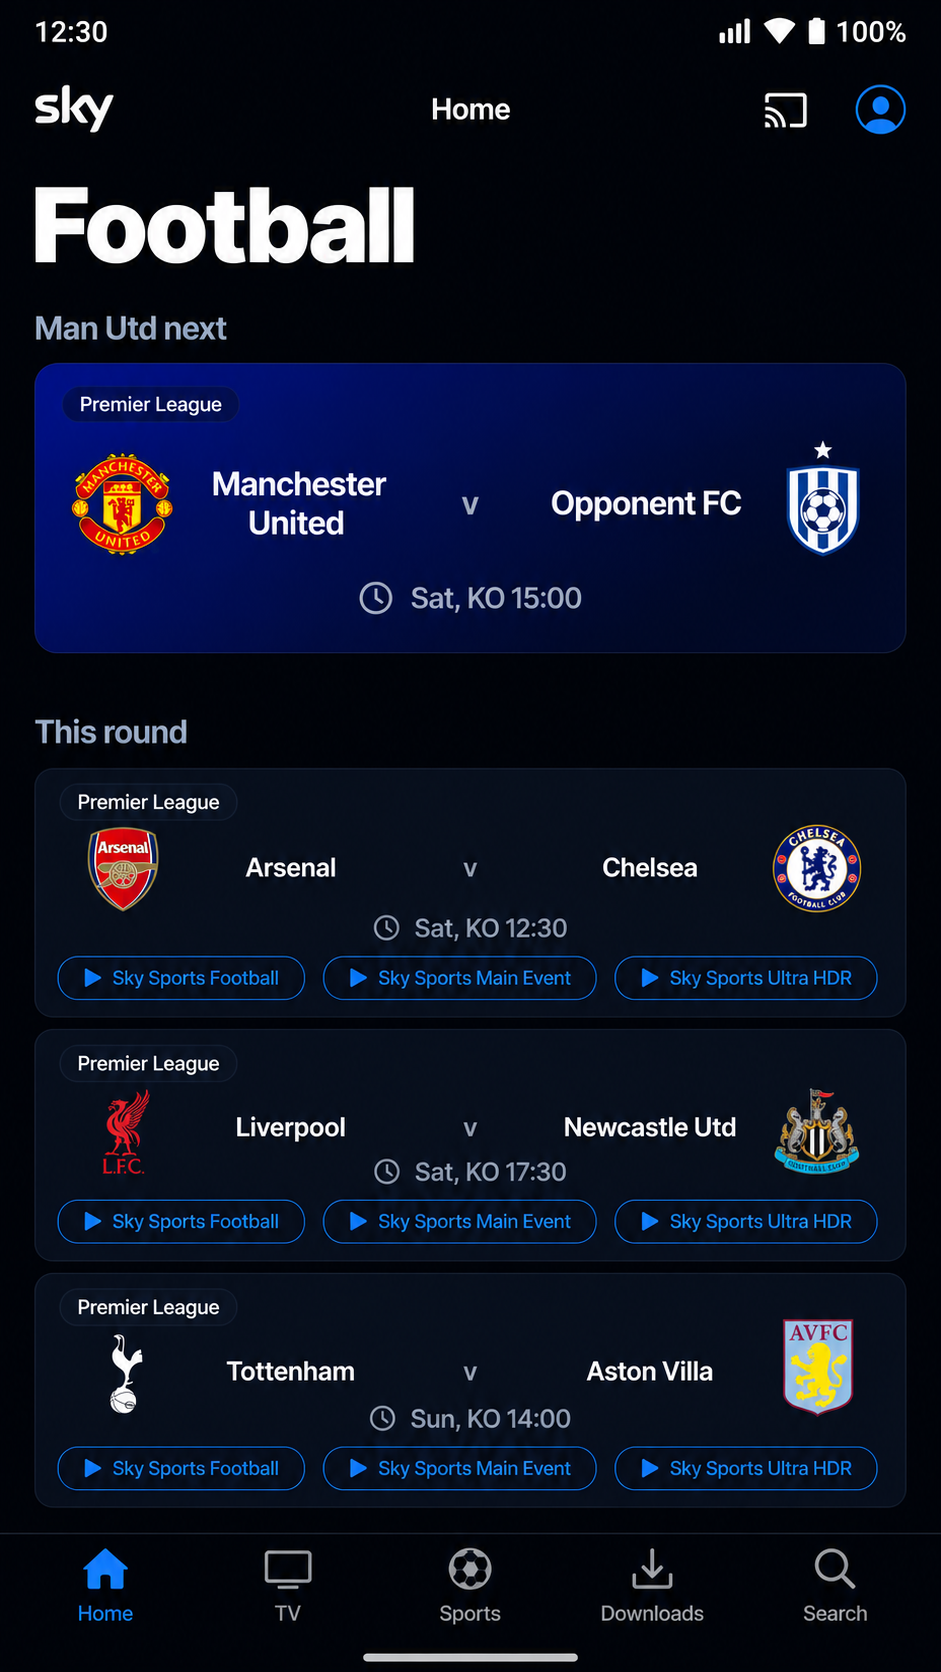
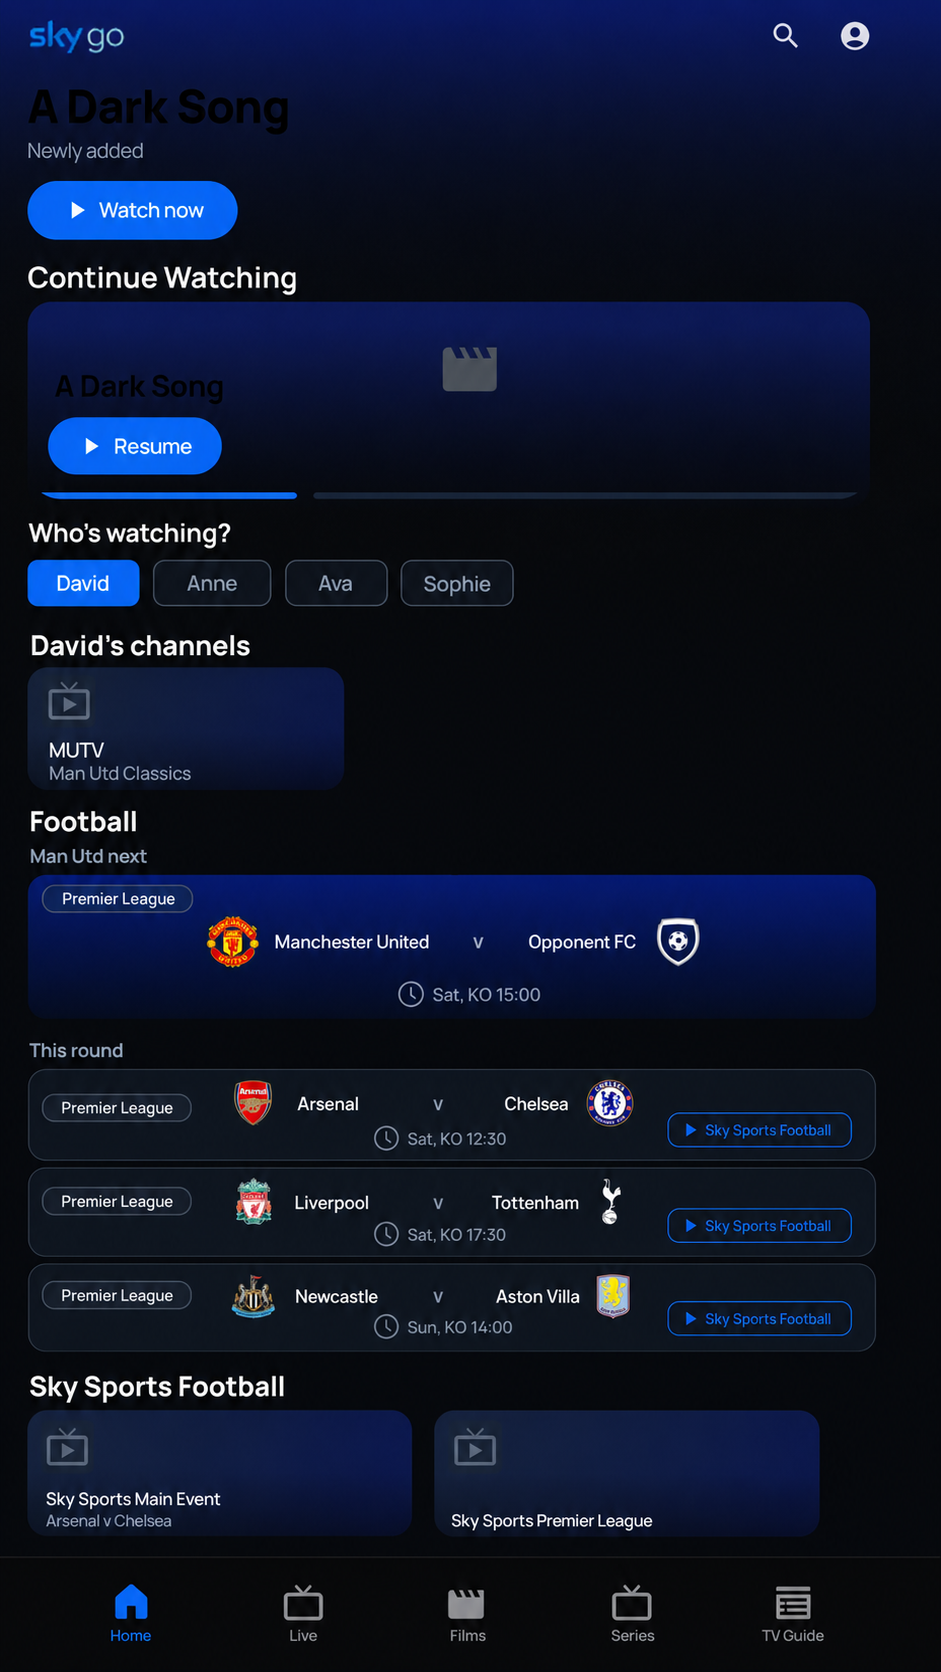
Regenerate the fixtures mockup grounded in the real Home screenshot
The previous mockup was pure text-to-image and invented a bottom nav
bar that doesn't match the app (real nav is Home/Live/Films/Series/TV
Guide, not the guessed "Home/TV/Sports/Downloads/Search"). Replaces it
with an image-to-image mockup grounded directly in the real committed
docs/skyline-screenshots/home_david.png, inserting the Football
section in its correct position (between the pinned-channels rail and
the "Sky Sports Football" category rail, matching HomeScreen.kt's
actual render order) and rendering the real 5-item bottom nav once at
the bottom of the composite. Design brief updated with a revision
history explaining what changed and why.

diff --git a/design/football-fixtures-list-redesign.md b/design/football-fixtures-list-redesign.md
@@ -270,33 +270,63 @@ reverted or reworked.
 
 ## Visuals
 
-**Mockup generated successfully**, once the session's network egress
-policy was widened to Full (originally blocked, see below):
+**Mockup regenerated as image-to-image, grounded in the real current
+screenshot** (superseding an earlier text-to-image version — see "Revision
+history" below):
 `design/football-fixtures-list-redesign/mockups/home-football-section.png`
-(`gpt-image-2-text-to-image`, 941×1672, `taskId`
-`b4ddf318b4667b6c444e35ffcb1f1e8d`). Generated from the prompt saved at
-`design/football-fixtures-list-redesign/mockups/prompt.txt` (unchanged from
-the first attempt — grounded in `SkyPalette.Canvas` background, the "Man
-Utd next" spotlight card with its indigo/navy gradient and `SkyRadius.hero`
-corners, a visible gap, "This round" label, then a full-width vertical
-stack of flat `SkyPalette.Surface` `FixtureCard`s with mirrored
-crest/name/status rows and outlined channel chips). The result visibly
-matches the shipped layout: spotlight card → clear gap → "This round" label
-→ three full-width fixture cards stacked top-to-bottom with even gaps, no
-horizontal carousel.
+(`gpt-image-2-image-to-image`, 941×1672, `taskId`
+`139b9efad7f3337d814662f1454b9cf6`). Input image was
+`docs/skyline-screenshots/home_david.png` (1078×2399, the real committed
+Roborazzi capture of `HomeScreen` with David selected — see "Grounding"
+above), uploaded via kie.ai's `file-base64-upload` endpoint per
+`docs/integrations/kie-ai-image-generation.md`. Prompt (saved at
+`design/football-fixtures-list-redesign/mockups/prompt.txt`) instructed
+preserving the screenshot's existing content pixel-faithfully (header
+wordmark/icons, hero card, Continue Watching, Who's watching chips,
+"David's channels" pinned rail, "Sky Sports Football" category rail) and
+inserting the Football section — "Man Utd next" spotlight card, gap, "This
+round" label, three vertically-stacked full-width fixture cards — directly
+between the "MUTV" pinned-rail card and the "Sky Sports Football" category
+rail, matching `HomeScreen.kt`'s actual render order (finding above). The
+prompt also specified the real 5-item bottom nav (Home/Live/Films/Series/TV
+Guide, `SkyPalette.Accent` blue on the selected "Home" icon+label only, no
+pill indicator, `SkyPalette.Canvas` bar background) appended once at the
+bottom of the composite, correcting the previous version's invented nav.
 
-**First attempt failed — network egress, not a missing key.**
-`KIE_AI_API_KEY` was set throughout; the initial `createTask` call got
-`CONNECT tunnel failed, response 403` against `api.kie.ai:443`, confirmed
-via `$HTTPS_PROXY/__agentproxy/status`'s `recentRelayFailures` (`"kind":
-"connect_rejected", "detail": "gateway answered 403 to CONNECT (policy
-denial or upstream failure)"`) and a retry that hit the same 403. Per this
-environment's proxy README, that's an organization egress-policy signal,
-not something to retry around. The user then changed this environment's
-network access setting to Full, `api.kie.ai` became reachable (confirmed
-via a plain `curl` returning `404` on the bare root instead of a proxy
-403, and an empty `recentRelayFailures`), and the mockup above was
-generated on the next attempt in the same session.
+Visual result, checked against the prompt: header/hero/Continue
+Watching/Who's watching chips/pinned rail are unchanged from the real
+screenshot; the Football section renders in the correct position with the
+right internal structure (spotlight card, gap, "This round" label, three
+stacked fixture cards, no carousel); the "Sky Sports Football" category
+rail still follows it; the bottom nav bar shows the correct 5 real items
+with only "Home" highlighted blue. One minor model liberty: the "Opponent
+FC" crest rendered as a generic placeholder badge rather than a blank/grey
+crest — cosmetic, doesn't affect the layout review.
+
+## Revision history
+
+**v2 (current)**: image-to-image, grounded in `docs/skyline-screenshots/home_david.png`,
+correct real bottom nav, full home-screen composite. Replaced v1 in place
+(same file path) per the user's request after reviewing v1 and flagging its
+nav bar as wrong.
+
+**v1 (superseded, not kept in the repo)**: pure text-to-image
+(`gpt-image-2-text-to-image`, `taskId` `b4ddf318b4667b6c444e35ffcb1f1e8d`),
+cropped to just the Football section with no surrounding screen content.
+Its biggest defect, caught by the user: it **invented** a bottom nav bar
+("Home / TV / Sports / Downloads / Search" with a football icon) that does
+not match the real app (`ui/navigation/SkylineNavHost.kt`'s actual 5 items
+are Home/Live/Films/Series/TV Guide — no Sports, Downloads, or Search tab
+exists on the bottom bar). Root cause: text-to-image has no ground truth to
+work from, so the model guessed plausible-looking nav rather than the real
+one — exactly the failure mode image-to-image grounding (this doc's v2,
+and the source-of-truth hierarchy's general preference for a live
+screenshot over guesswork) exists to prevent. v1's *first* generation
+attempt had additionally been blocked by this session's network egress
+policy (`api.kie.ai:443` denied with `403`); the user widened the
+environment's network access to Full, which is what let v1 (and then v2)
+actually reach kie.ai at all — recorded here since it's a real environment
+constraint future sessions may hit again.
 
 ## Open items carried over from prior briefs (not part of this PR, for the record)
 
@@ -322,17 +352,20 @@ generated on the next attempt in the same session.
   further implementation work is required for the two fixes described
   above.
 - **Visuals**: generated —
-  `design/football-fixtures-list-redesign/mockups/home-football-section.png`,
-  after the environment's network access was widened to Full (the initial
-  attempt hit a `403` egress-policy denial on `api.kie.ai:443`; see
-  "Visuals" above for both attempts). No "current state" screenshot exists
-  — `HomeScreenshotTest.kt` deliberately excludes the Football section
-  (confirmed via its doc comment and by opening
-  `docs/skyline-screenshots/home_david.png` directly), and this environment
+  `design/football-fixtures-list-redesign/mockups/home-football-section.png`
+  (v2, current), image-to-image grounded directly in the real committed
+  screenshot `docs/skyline-screenshots/home_david.png`, with the real
+  5-item bottom nav correctly rendered. Supersedes an earlier v1 that was
+  pure text-to-image and had an invented, incorrect nav bar — see "Visuals"
+  and "Revision history" above for the full account of both attempts and
+  why v2 was necessary. The Football section's own content still can't be
+  captured live end-to-end — `HomeScreenshotTest.kt` deliberately excludes
+  it (`BuildConfig.FOOTBALL_DATA_API_KEY` empty locally, and the test's
+  `OkHttpClient` always throws even with a key), and this environment
   cannot resolve the Android Gradle Plugin to run/extend that test
-  regardless (confirmed by running it) — so the mockup is text-to-image
-  grounded in the source read, not image-to-image grounded in a captured
-  screenshot.
+  regardless (confirmed by running it) — so the Football section itself is
+  still source-grounded (from `HomeScreen.kt`/`Components.kt`) composited
+  into the real screenshot, not literally screen-captured end to end.
 - **Summary**: Reviewed the already-shipped spacing fix and carousel→
   vertical-list redesign of David's "Football" round-fixtures section on
   Home against the design system and general UX practice; both changes are
